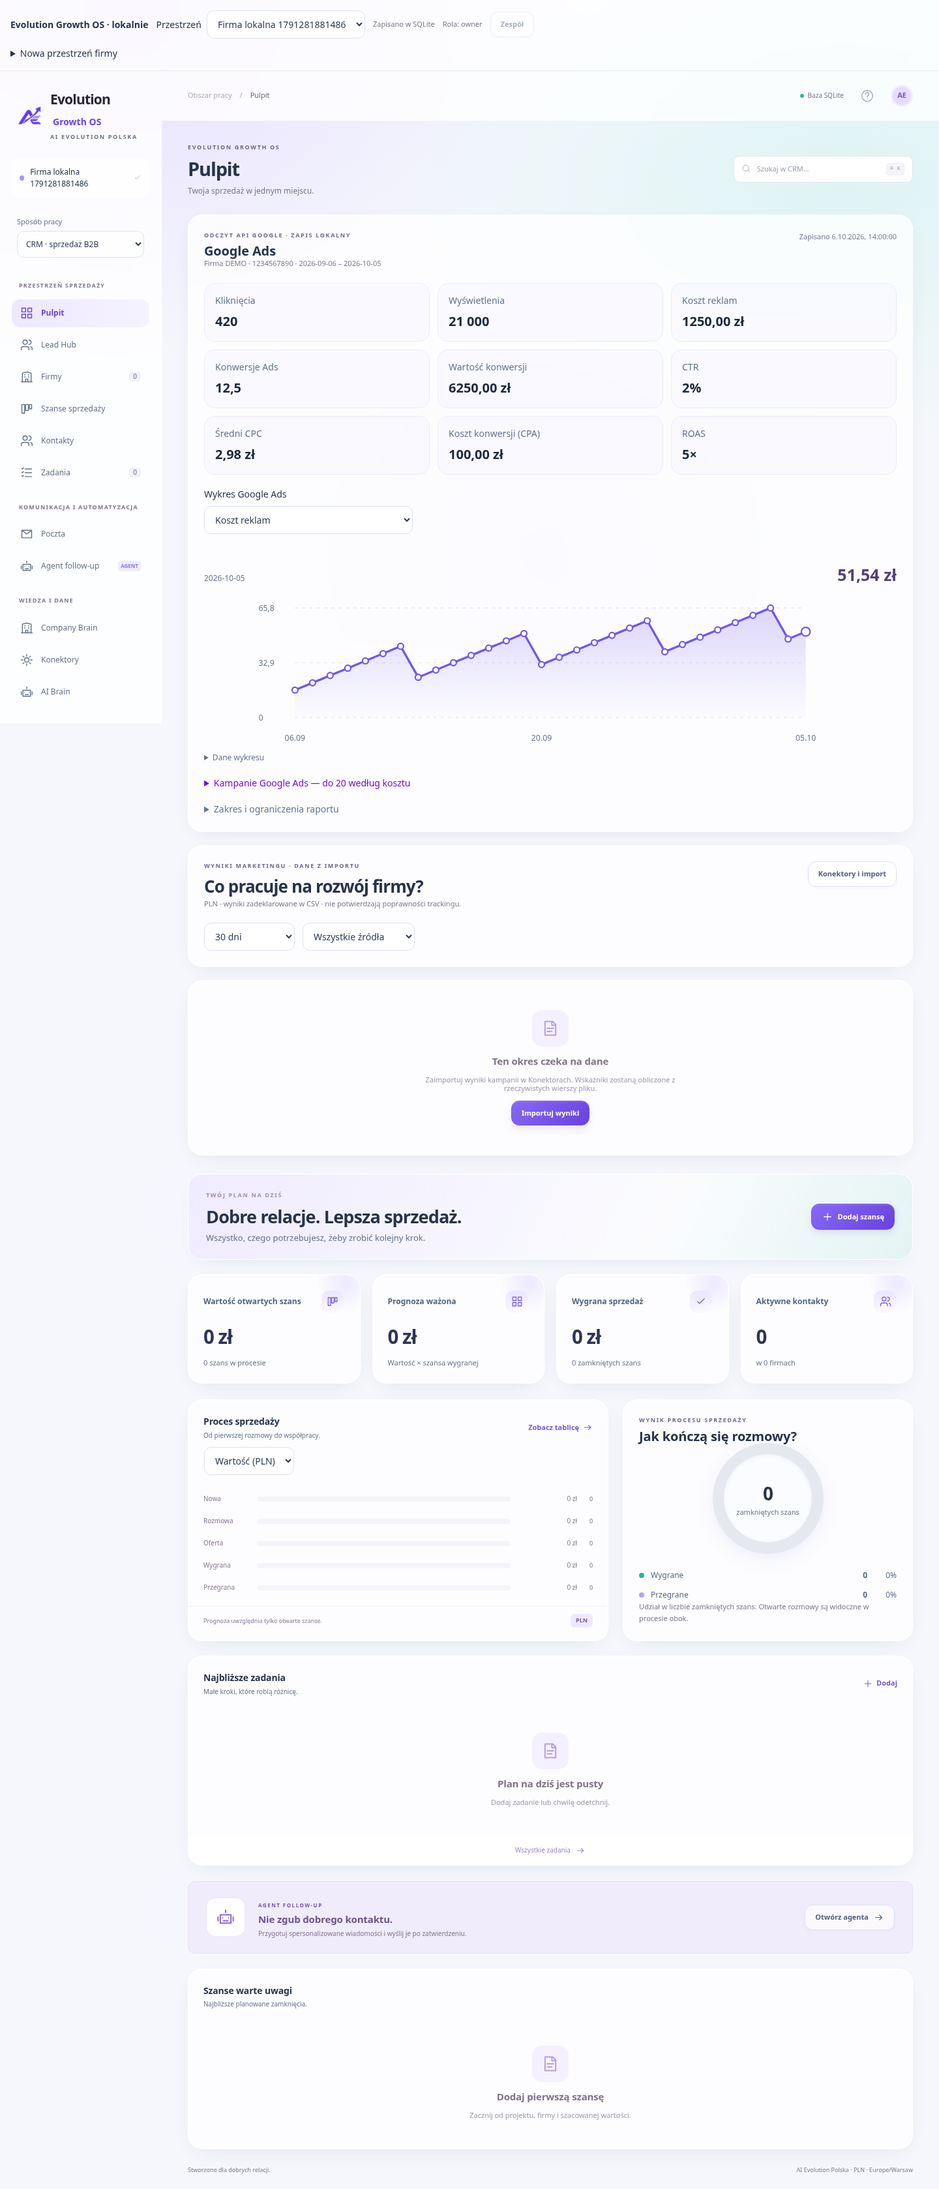
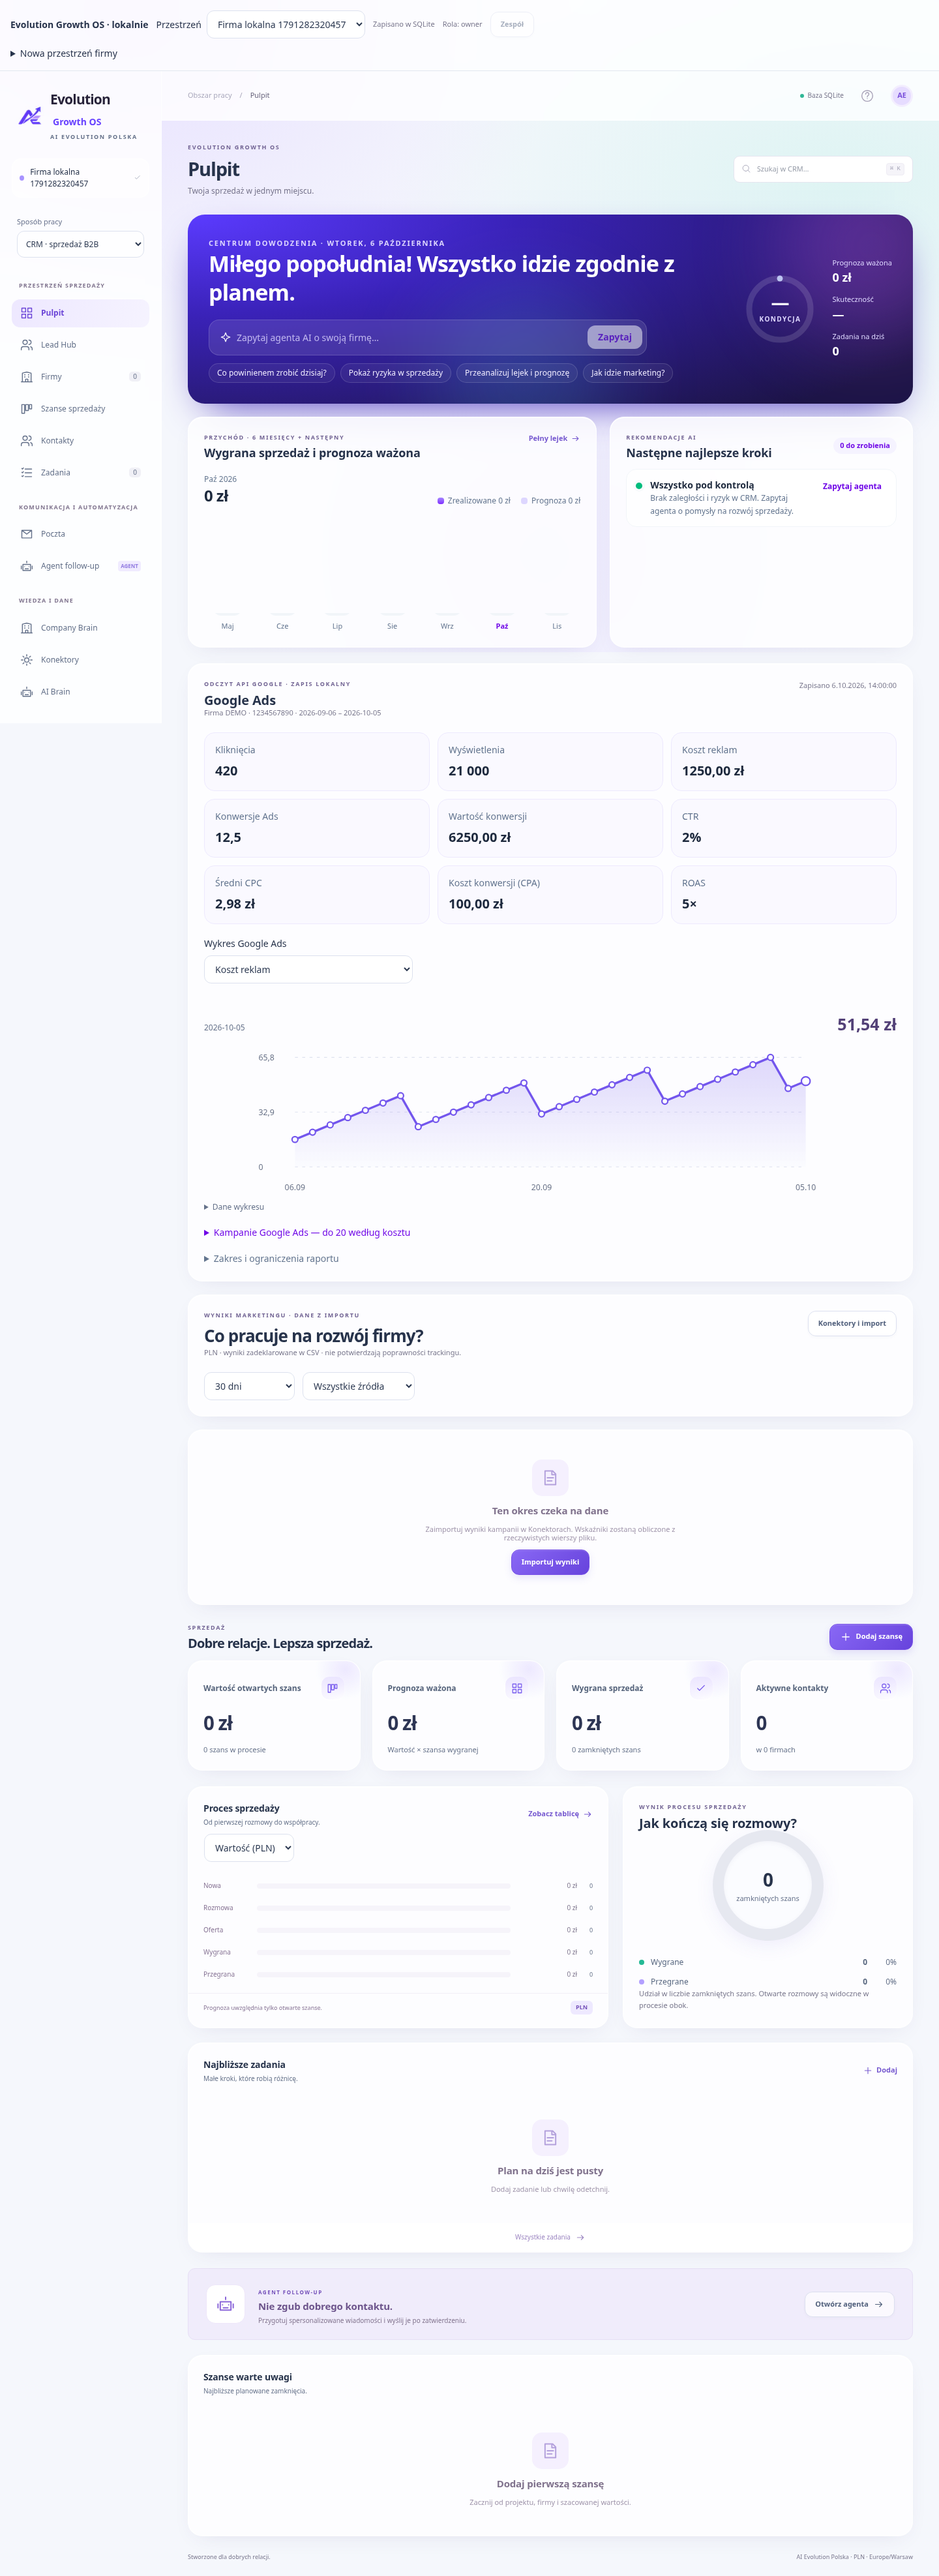
docs: refresh Google setup and screenshots for merged 0.7 release

diff --git a/components/local/connectors.tsx b/components/local/connectors.tsx
@@ -475,8 +475,8 @@ export default function Connectors({
             </div>
             <p className="crm-muted">
               Wczytaj dzienne wyniki kampanii w PLN. Adapter importu waliduje
-              dane i aktualizuje istniejące wiersze. Bez live OAuth i zmian
-              kampanii.
+              dane i aktualizuje istniejące wiersze. Import pozostaje osobny
+              względem odczytu Google Ads API.
             </p>
             <p className="text-sm">
               Kolumny: date, source, campaign, spend, impressions, clicks,

diff --git a/README.md b/README.md
@@ -14,7 +14,7 @@ Jasny interfejs ze szkłem i miękkimi gradientami, widok mobilny, kwoty w PLN, 
 
 ![Centrum dowodzenia Evolution Growth OS](docs/screenshots/command-center.png)
 
-**W 0.7:** logowanie Google i bezpośrednie statystyki Ads, rozwijające wersję 0.6: Centrum dowodzenia z kondycją firmy i rekomendacjami AI, wbudowany **Evolution Agent** działający bez klucza API, katalog konektorów premium i odczyt płatności **Stripe**. Plan i szczegóły: [docs/PRODUCT-POLISH.md](docs/PRODUCT-POLISH.md).
+**W 0.7:** logowanie Google, wybór usług i statystyki Ads bez CSV. Aplikacja zawiera również Centrum dowodzenia, wbudowanego **Evolution Agenta** bez klucza API, katalog konektorów i odczyt płatności **Stripe**. Plan i szczegóły: [docs/PRODUCT-POLISH.md](docs/PRODUCT-POLISH.md).
 
 ![Pulpit Evolution Growth OS z wynikami kampanii DEMO](docs/screenshots/local-dashboard.png)
 
@@ -292,7 +292,7 @@ npm run test:localdb
 
 Playwright wymaga Chromium: `npx playwright install chromium` lub `CRM_CHROMIUM_PATH=/ścieżka/do/chromium`. Testy uruchamiają serwery na portach 3000 (CRM), 3001 (cloud UI) i 3002 (SQLite). Nie uruchamiaj kilku instancji Next dev z tym samym `.next/dev` równocześnie. `npm run test:db` dodatkowo wymaga Docker i sprawdza migrację/RLS w jednorazowym Postgres; bootstrap Auth nie jest testem rzeczywistej usługi Supabase Auth.
 
-Testy obejmują rezerwacje i kolizje terminów, historię klienta, przełączanie trybu, onboarding, agregację wykresów, walidację, izolację przestrzeni, konflikty, SQLite, kopie, wikilinki, ZIP, import/KPI, adaptery, wybór modelu, zatwierdzanie i generator. Dostawcy API/AI są jawnie mockowani w testach; SQLite i eksporty są rzeczywiste. Generator UI używa dostawcy testowego, a jego atomowy zapis jest sprawdzany osobno na SQLite. Nie wykonano płatnych wywołań AI ani logowania do rzeczywistych kont Supabase, WordPress, PostHog czy Resend w tym środowisku. Live smoke test wymaga własnej konfiguracji użytkownika.
+Testy obejmują rezerwacje i kolizje terminów, historię klienta, przełączanie trybu, onboarding, agregację wykresów, walidację, izolację przestrzeni, konflikty, SQLite, kopie, wikilinki, ZIP, import/KPI, adaptery, wybór modelu, zatwierdzanie i generator. Testy obejmują także OAuth z PKCE, szyfrowanie i konta MCC. Dostawcy API/AI są jawnie mockowani w testach; SQLite i eksporty są rzeczywiste. Generator UI używa dostawcy testowego, a jego atomowy zapis jest sprawdzany osobno na SQLite. Nie wykonano płatnych wywołań AI ani logowania do rzeczywistych kont Supabase, WordPress, PostHog czy Resend w tym środowisku. Live smoke test wymaga własnej konfiguracji użytkownika.
 
 | Katalog                                                                          | Odpowiedzialność                                          |
 | -------------------------------------------------------------------------------- | --------------------------------------------------------- |

diff --git a/docs/GOOGLE-INTEGRATIONS.md b/docs/GOOGLE-INTEGRATIONS.md
@@ -100,6 +100,8 @@ API ma limit 20 sekund na żądanie, 2 MB odpowiedzi, jedno ponowienie 429/502/5
 
 ## 8. Weryfikacja
 
+W połączonym wydaniu 0.7.0 przeszło **59 testów Node**, **13 testów przeglądarkowych SQLite** i **5 testów regresji cloud**. Przeszły także TypeScript, ESLint oraz produkcyjny build lokalny.
+
 Testy Node sprawdzają OAuth z PKCE, cookies, single-use, wygasanie, anulowanie, zakresy, szyfrowanie, brak sekretów w rzeczywistej kopii SQLite, izolację firm, zmianę konta podczas odczytu oraz kontrakty GA4/GSC/Ads, metryki, paginację i MCC. Testy przeglądarkowe sprawdzają wybór usług, powrót logowania, konfigurację, raporty, odłączenie, pulpit i telefon.
 
 **Odpowiedzi Google w testach i screenshotach są jawnie mockowane.** Ta sesja nie ma danych OAuth ani dostępu do Twoich kont; odczyt live potwierdzisz dopiero po własnej konfiguracji przyciskiem **Sprawdź odczyt**. Screenshoty `google-*-demo.png` pokazują dane testowe.
